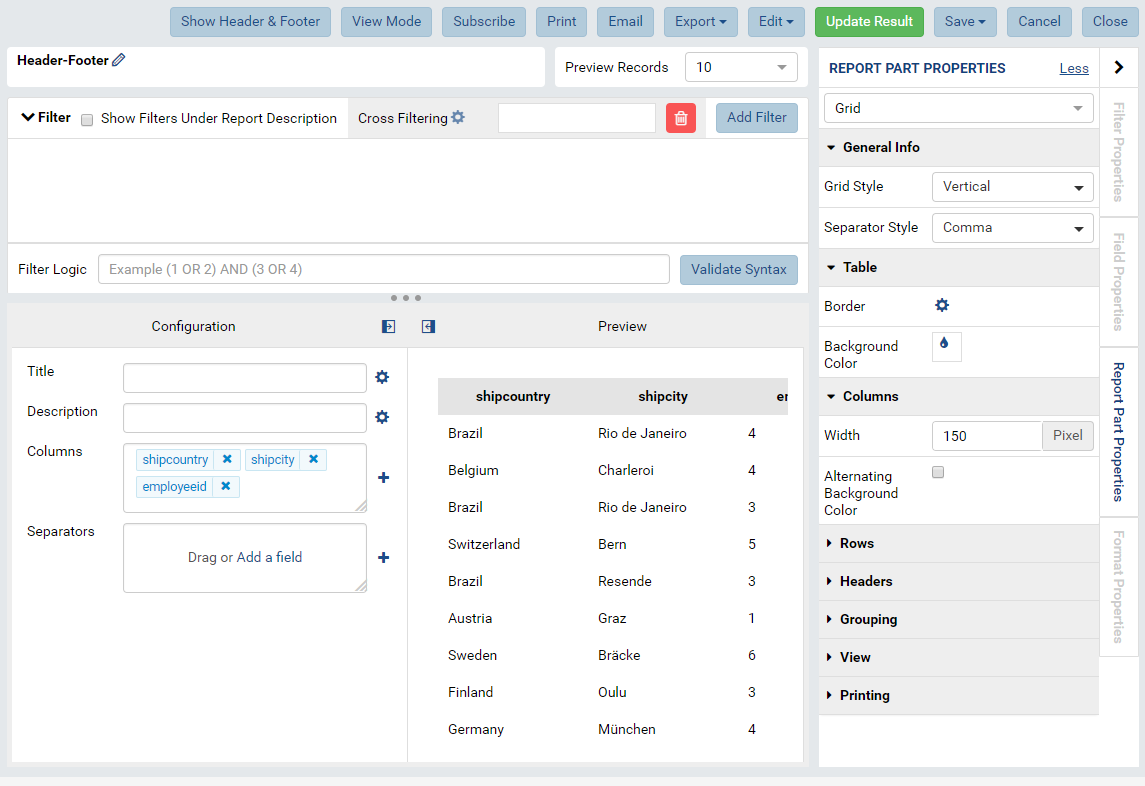
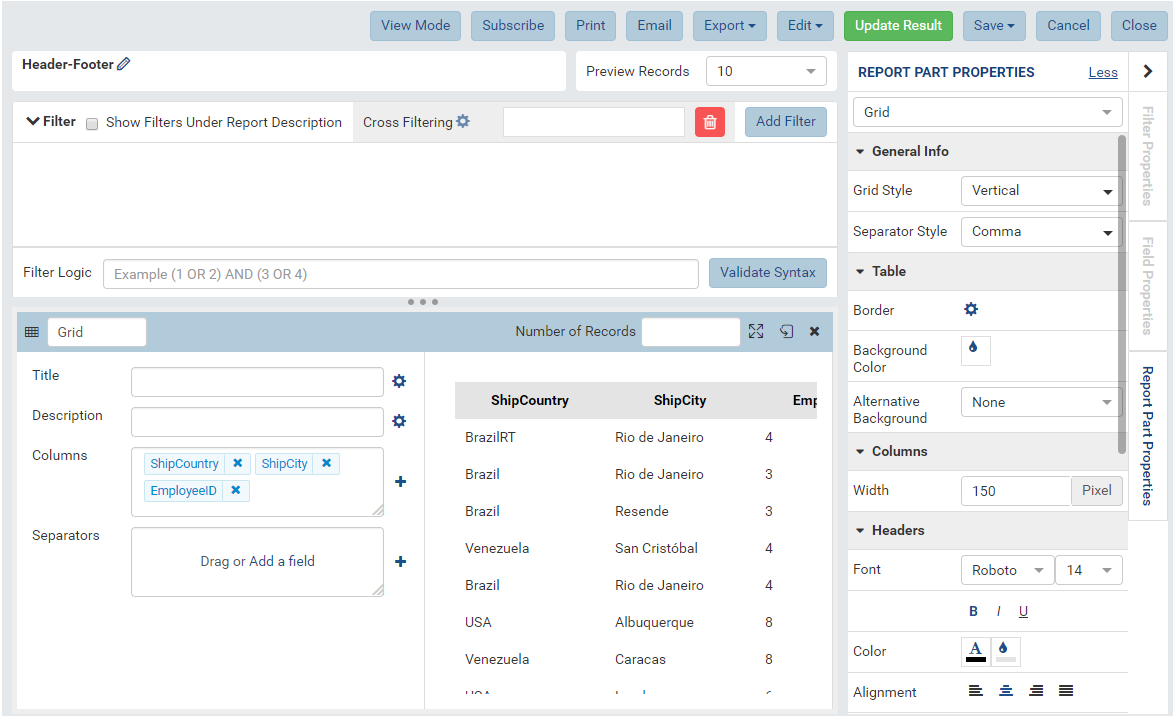
Alternative Background color for grid

diff --git a/ui/doc_report_designer_grid.rst b/ui/doc_report_designer_grid.rst
@@ -80,26 +80,34 @@ pane:
 
    .. figure:: /_static/images/Report_Designer_Background_Color.png
       :align: right
-      :width: 225px
 
       Report Designer - Background Color
 
    Set the background color. |br|
+
+-  .. _Report_Designer_Alternative_Background_Color:
+
+   .. figure:: /_static/images/Report_Designer_Alternative_Background_Color.png
+      :align: right
+
+      Report Designer - Alternative Background Color
+
+   Set the alternative background (New in version 2.9.0) by selecting one of four options:
+
+      - **None**: Do not apply alternative background color. When selecting this option, the Alternative Background Color does not display.
+      - **Rows**: Apply alternative background color for rows.
+      - **Columns**: Apply alternative background color for columns.
+      - **Rows and Columns**: Apply alternative background color for both rows and columns. |br|
+
 -  .. _Report_Designer_Columns_Width_Setting:
 
    .. figure:: /_static/images/Report_Designer_Columns_Width_Setting.png
       :align: right
-      :width: 222px
 
       Report Designer - Columns Setting
 
-   Set the column width in
-   pixels or characters. |br|
+   Set the column width inpixels |br|
 
--  Choose to alternate column background color for easier reading.
--  .. _Report_Designer_Rows_Setting:
-
--  Choose to alternate row background color for easier reading.
 -  .. _Report_Designer_Headers_Setting:
 
    .. figure:: /_static/images/Report_Designer_Headers_Setting.png

diff --git a/ui/doc_report_viewer.rst b/ui/doc_report_viewer.rst
@@ -71,7 +71,7 @@ Quick Edit Report
 
    .. figure:: /_static/images/Report_Viewer_in_Quick_Edit_mode.png
       :align: center
-      :width: 777px
+      :width: 782px
 
       Quick Edit Mode
 
@@ -86,7 +86,7 @@ Quick Edit Report
 
    .. figure:: /_static/images/Report_Viewer_in_Quick_Edit_mode_Hide_Preview.PNG
       :align: center
-      :width: 1065px
+      :width: 703px
 
 
       Preview section is hidden in a report part backside in Report Review
